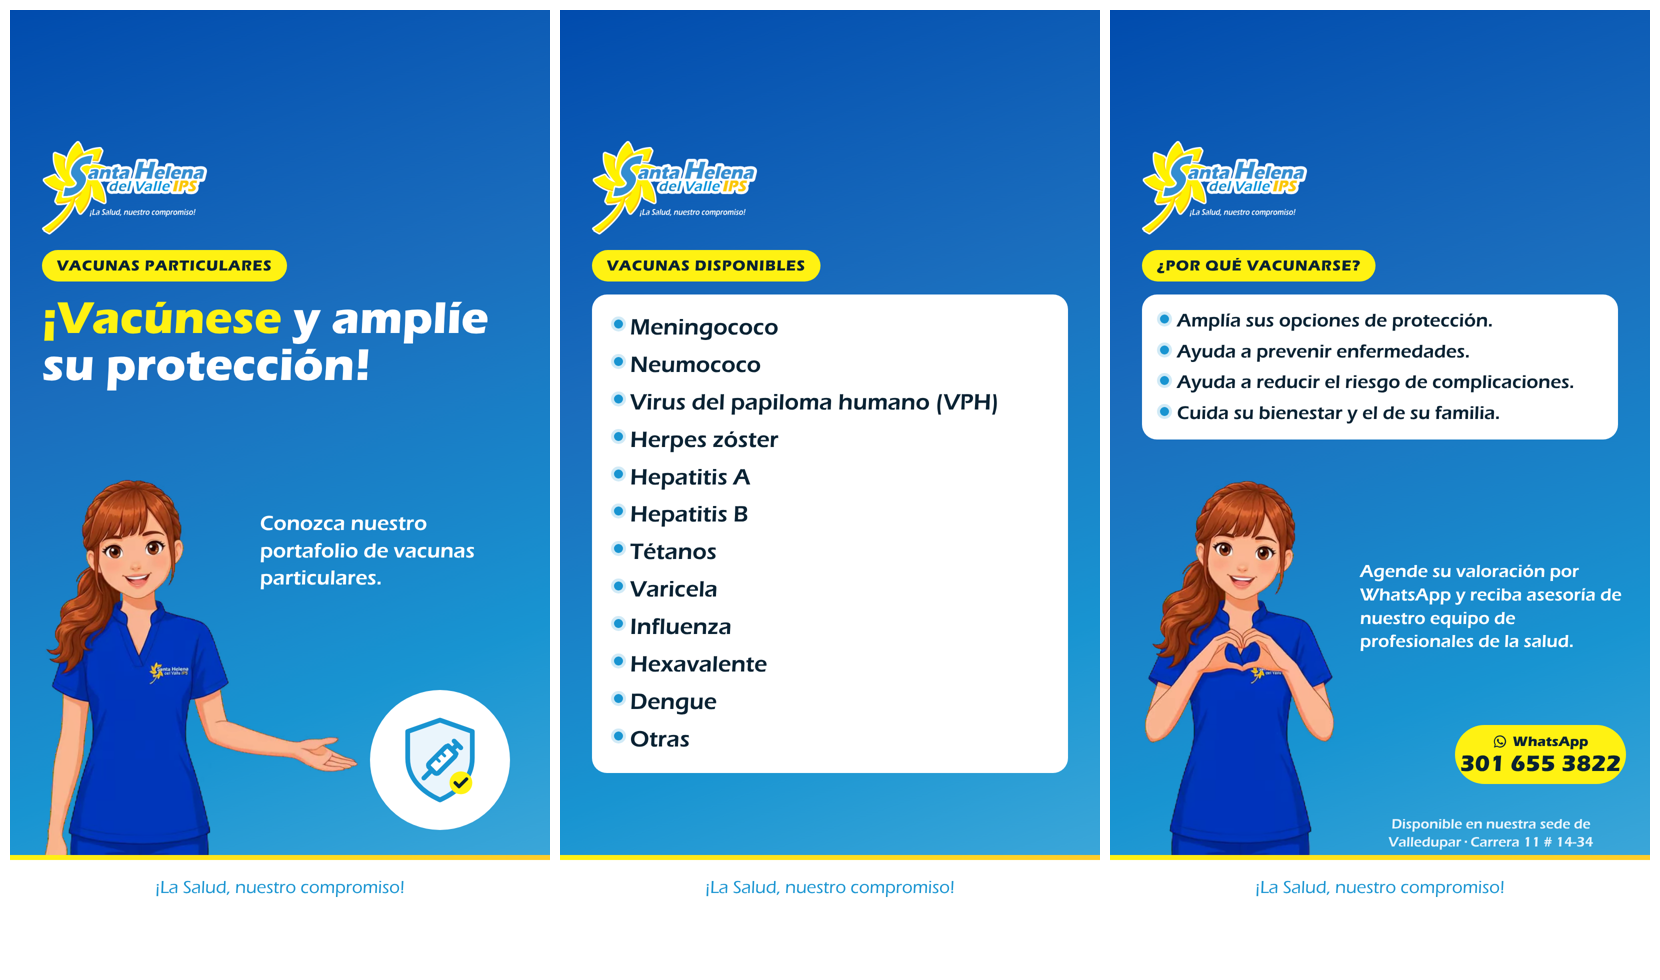
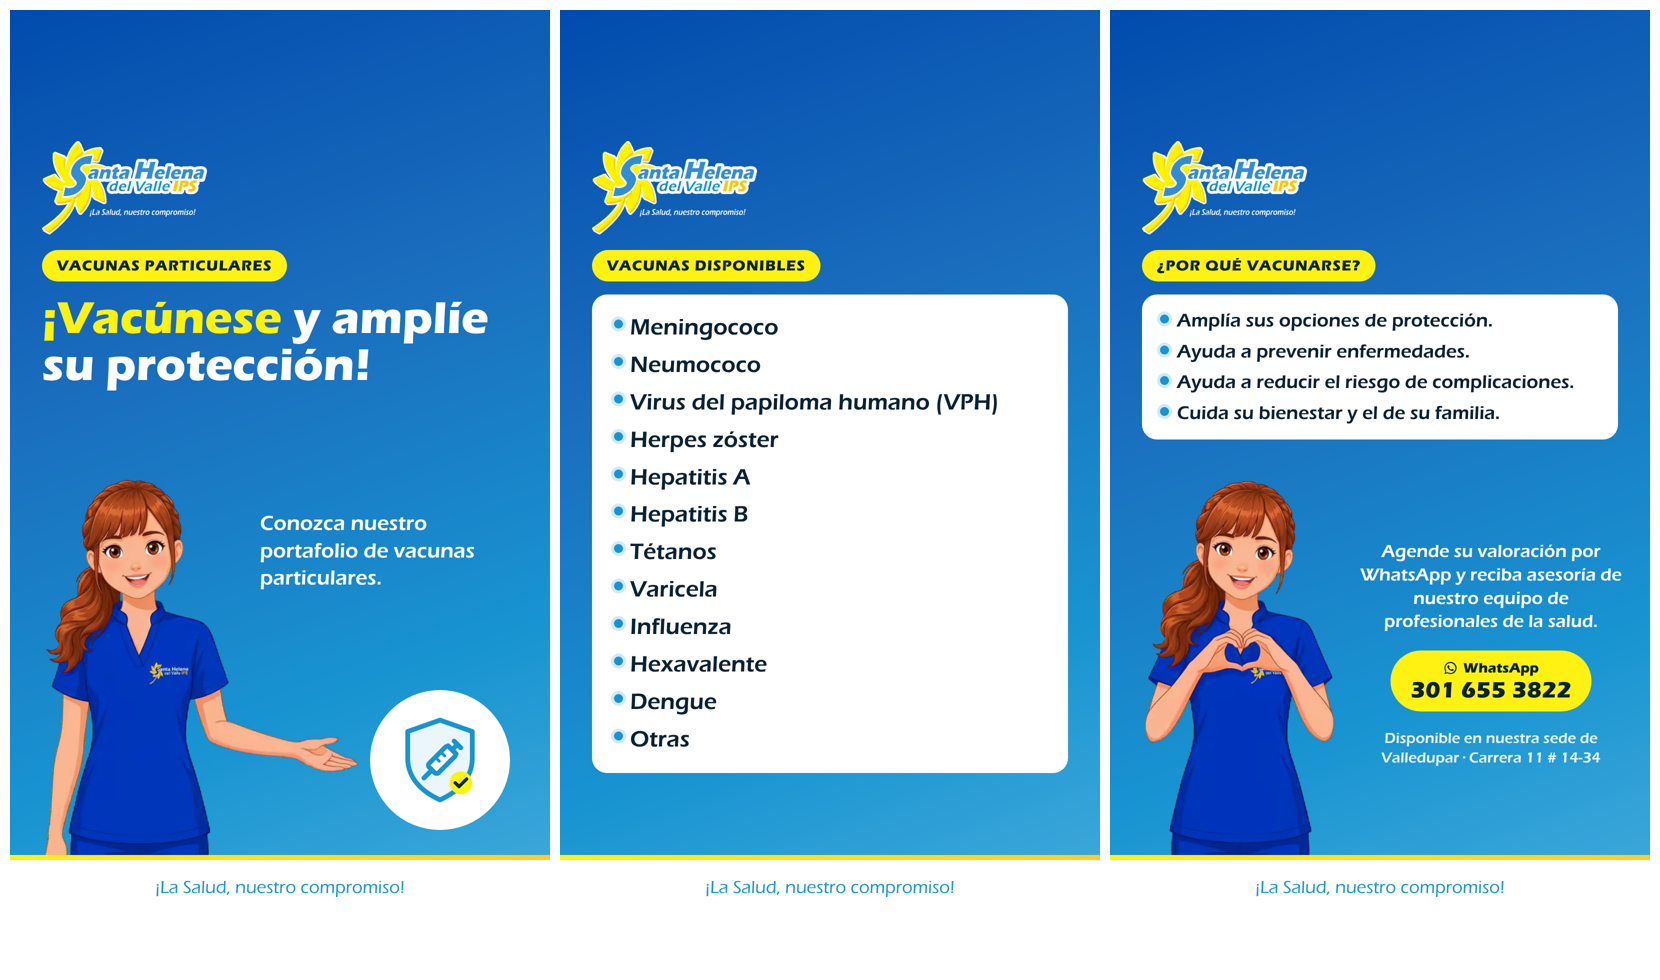
Historia vacunas: llamado, botón y sede centrados en una columna
Claude-Session: https://claude.ai/code/session_01KgBCaN2Nb7mn6jAyyriR7q

Changed region(s): [[0.7988, 0.551, 0.9831, 0.8878]]

diff --git a/entregas/creativo-instagram/2026-11-20-historia-vacunas-particulares/plantilla/historia.html b/entregas/creativo-instagram/2026-11-20-historia-vacunas-particulares/plantilla/historia.html
@@ -27,7 +27,9 @@ h1 em{font-style:normal;color:#FFF212}
 .pill small{font-size:28px;display:flex;align-items:center;gap:10px}
 .pill b{font-weight:400;font-size:46px;margin-top:6px;white-space:nowrap}
 .sinorden{font-family:"Eras Bold ITC";font-size:28px;white-space:nowrap;color:#FFF212;text-align:center}
-.sede{font-size:28px;line-height:1.3;text-align:center;color:#EAF5FC}
+.sede{font-size:30px;line-height:1.3;text-align:center;color:#EAF5FC}
+.col{display:flex;flex-direction:column;align-items:center;text-align:center;gap:34px}
+.col .pill{padding:20px 40px}
 .badge{position:absolute;left:720px;top:1360px;width:280px;height:280px;border-radius:50%;background:#fff;display:flex;align-items:center;justify-content:center}
 .hel{position:absolute;left:-190px;top:900px;width:900px;height:900px}
 .banda{position:absolute;left:0;right:0;bottom:0;height:220px;background:#fff;display:flex;justify-content:center;padding-top:34px}
@@ -62,10 +64,11 @@ if(p===3){
   html+=`<div class="arriba"><span class="tag">${esc(v.p3.etiqueta)}</span>`;
   if(v.p3.puntos.length) html+=`<div class="card puntos">${v.p3.puntos.map(x=>`<div>${esc(x)}</div>`).join('')}</div>`;
   html+=`</div>`;
-  const top=v.p3.puntos.length?1100:700;
-  html+=`<div class="der" style="top:${top}px"><p class="llamado">${esc(v.p3.llamado)}</p></div>`;
-  html+=`<div class="der" style="top:1430px;left:690px;right:48px"><div class="pill"><small>${WA} WhatsApp</small><b>${esc(C.whatsapp)}</b></div></div>
-         <p class="der sede" style="top:1610px;left:500px">${esc(C.sede)}</p>`;
+  // columna derecha centrada: llamado, botón y sede
+  const top=v.p3.puntos.length?1060:700;
+  html+=`<div class="der col" style="top:${top}px"><p class="llamado">${esc(v.p3.llamado)}</p>
+         <div class="pill"><small>${WA} WhatsApp</small><b>${esc(C.whatsapp)}</b></div>
+         <p class="sede">${esc(C.sede)}</p></div>`;
 }
 if(POSE[p]) html+=`<img class="hel" src="img/helenita-${POSE[p]}.png">`;
 html+=`<div class="amarilla"></div><div class="banda"><p>${esc(C.eslogan)}</p></div>`;
